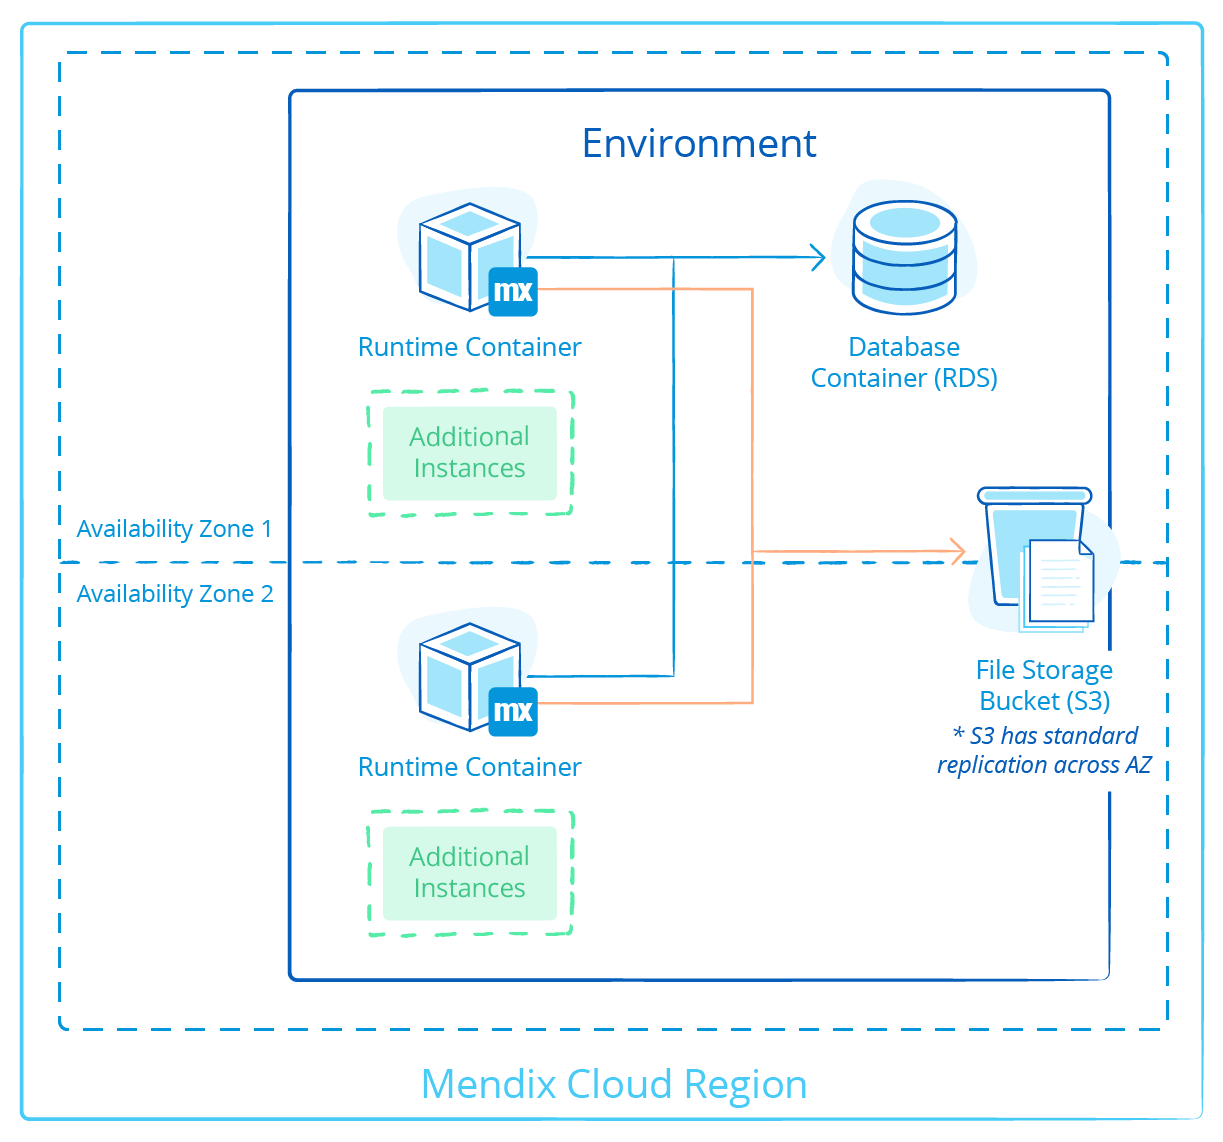
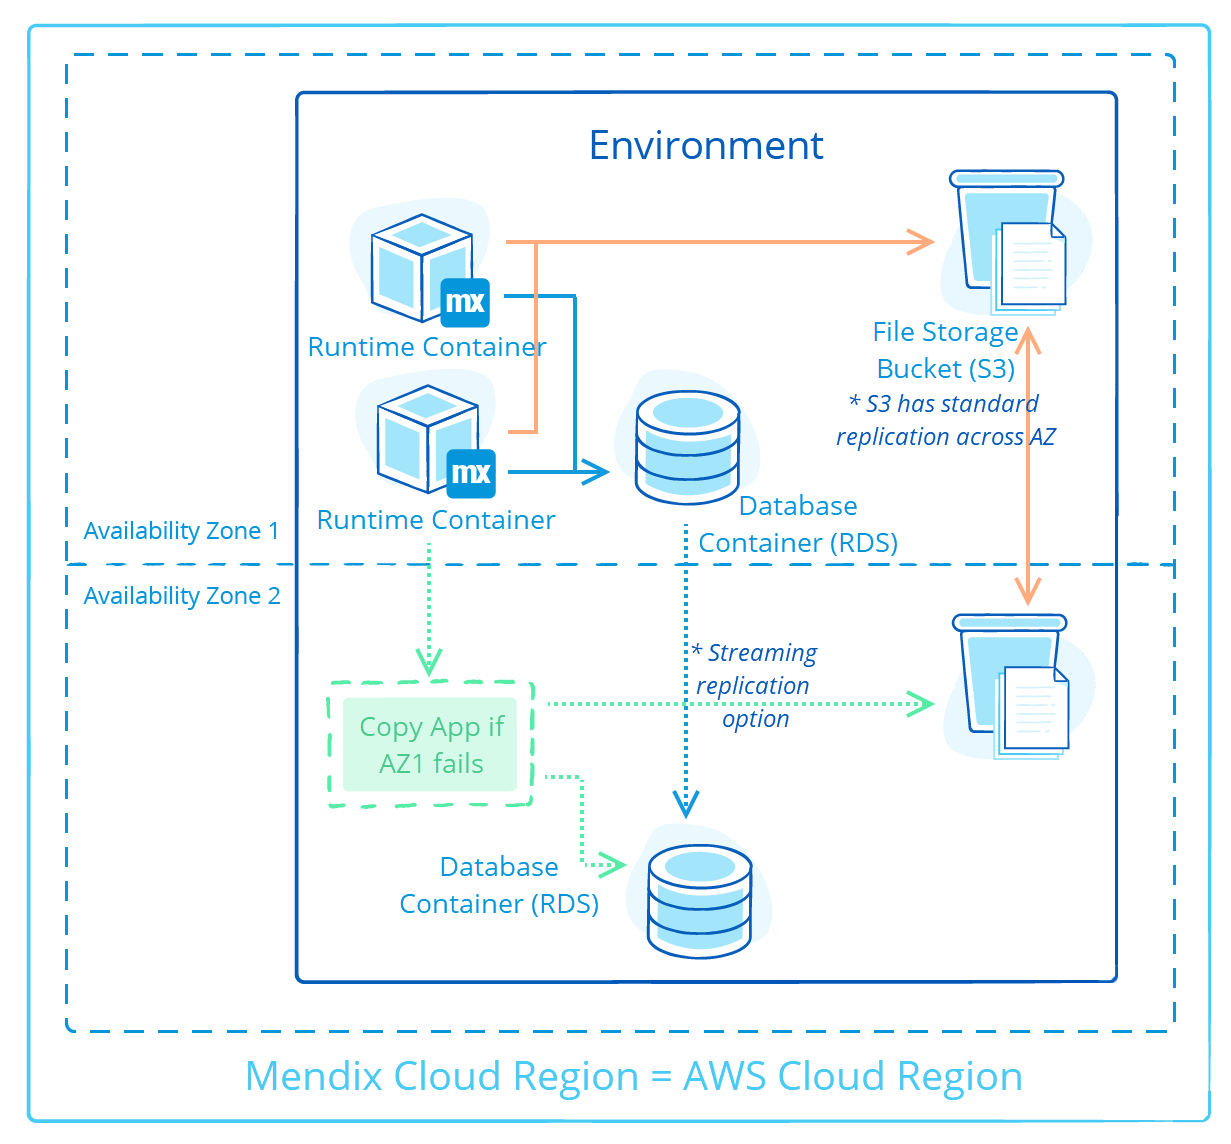
Update architecture to reflect Availability Zones correctly.

diff --git a/content/evaluation-guide/enterprise-capabilities/cloud-architecture.md b/content/evaluation-guide/enterprise-capabilities/cloud-architecture.md
@@ -48,7 +48,9 @@ The Mendix Cloud offers high availability for all app environments, ensuring zer
 
 ## 5 How Does Mendix Provide Disaster Recovery? {#cloud-dr}
 
-Mendix Cloud architecture automatically applies failover between availability zones, so database containers and file storage buckets are automatically replicated across multiple availability zones. All backups are copied to other data centers, but the data will not leave the region, should your company require this.
+Mendix Cloud architecture keeps runtime containers, database containers, and file storage buckets in the same availability zone (AZ) to minimize latency in database operations. It automatically applies failover to a geographically separate AZ if the current AZ fails.  New copies of your app will be started automatically in the new AZ. File storage buckets are automatically replicated by AWS across multiple AZs and, with Mendix high-availability options, the  database containers can also be replicated automatically through streaming – or you can restore a backup to the new AZ.
+
+All backups are copied to other data centers, but the data will not leave the region, should your company require this.
 
 {{% image_container width="600" %}}
 ![Application Disaster Recovery Chart](attachments/figure-12-multi-az-deployment-in-mendix-cloud.png)
